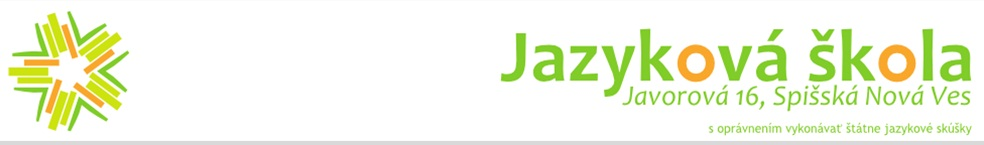
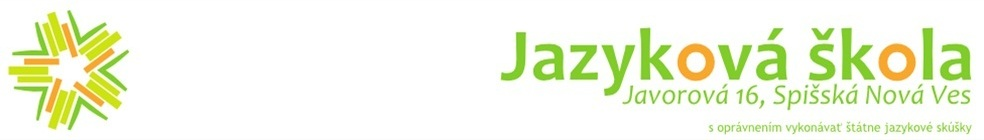
Pridanie obrázka do hlavičky.

diff --git a/www/css/custom.css b/www/css/custom.css
@@ -10,7 +10,22 @@ body, html {
     color: #000000;
 }
 
-footer {
+div#primary > main#content > div.row {
+    background: yellow;
+    padding: 15px;
+}
+
+div#primary > aside {
+    background: yellow;
+    padding: 15px;
+}
+
+body > header {
+    height: 140px;
+    background: url('../images/header.jpg') no-repeat top center;
+}
+
+body > footer {
     height: 50px;
     line-height: 50px;
     text-align: center;
